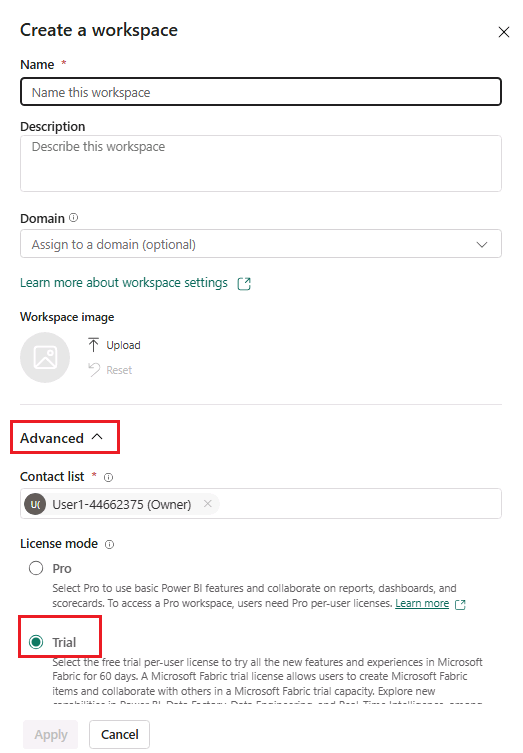
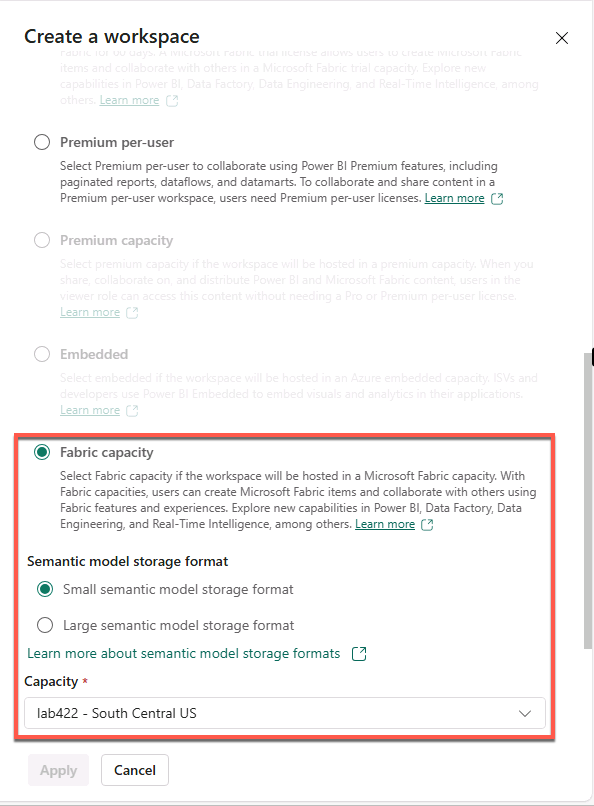
Update to use fabric capacity over the free trial

diff --git a/lab/README.md b/lab/README.md
@@ -10,42 +10,28 @@ This folder contains the public facing files for the lab `Microsoft Fabric: Star
 ## Sign into Windows
 
 1. In the virtual machine, sign into Windows using the following credentials:
-    * **User name**: +++@lab.VirtualMachine(Win11-Pro-Base-VM).Username+++
-    * **Password**: +++@lab.VirtualMachine(Win11-Pro-Base-VM).Password+++
+   - **User name**: +++@lab.VirtualMachine(Win11-Pro-Base-VM).Username+++
+   - **Password**: +++@lab.VirtualMachine(Win11-Pro-Base-VM).Password+++
 
 ## Create a trial Teams account
 
 1. In the virtual machine, open Microsoft Teams from the desktop or taskbar.
 2. When prompted, sign in using the following credentials:
-    * **Email**: +++@lab.CloudPortalCredential(User1).Username+++
-    * **Password**: +++@lab.CloudPortalCredential(User1).Password+++
+   - **Email**: +++@lab.CloudPortalCredential(User1).Username+++
+   - **Password**: +++@lab.CloudPortalCredential(User1).Password+++
 3. Complete the sign up process to create a new account.
 4. After signing in to Teams, select **OK** when prompted to stay signed in to all your apps and then select **Done** to complete.
 5. Choose **Activate / Explore / Unlock Trial** and when prompted allow Teams to be the default app for chats and calls select **Continue**.
 
-## Create a free-tier Fabric account
-
-1. In the virtual machine, open a web browser and browse to +++https://app.fabric.microsoft.com+++.
-2. When prompted, sign in using the following credentials:
-    * **Email**: +++@lab.CloudPortalCredential(User1).Username+++
-    * **Password**: +++@lab.CloudPortalCredential(User1).Password+++
-3. Complete the sign up process to create a new account, if asked for a phone number, enter +++555 1234567+++ when prompted. You will see Free license assigned, but you will still need to activate a Free Trial.
-
-## Activate a Fabric trial
-
-1. After signing up for a free Fabric account, in the Fabric portal at +++https://app.fabric.microsoft.com+++, select the **Account Manager** icon (the *user* image at the top right) and in the menu, select **Free trial** and then select **Activate** to start a Microsoft Fabric trial.
-![Screenshot showing how to activate a Fabric trial in the Fabric portal.](media/activate-fabric-trial.png)
-2. After the trial has been started, you can continue in the browser session - you will want to remember the **email** and **password** you used to sign up for Microsoft Fabric - you'll need them in the exercises (You can also find your credentials under the **Resources** tab).
-
 ## Exercises in this lab
 
-Now you're ready to complete the exercises in this lab using the Fabric trial license you just created. The lab includes multiple exercises, so when you finish one, just move onto the next one. The exercises in this lab are:
+Now you're ready to complete the exercises in this lab. The lab includes multiple exercises, so when you finish one, just move onto the next one. The exercises in this lab are:
 
-* Create an eventhouse in Microsoft Fabric
-* Get data in the Real-Time Hub in Microsoft Fabric
-* Query streaming data in a KQL queryset in Microsoft Fabric
-* Create a Real-Time dashboard in Microsoft Fabric
-* Create a Power BI report in Microsoft Fabric
+- Create an eventhouse in Microsoft Fabric
+- Get data in the Real-Time Hub in Microsoft Fabric
+- Query streaming data in a KQL queryset in Microsoft Fabric
+- Create a Real-Time dashboard in Microsoft Fabric
+- Create a Power BI report in Microsoft Fabric
 
 The exercises are designed to be completed in order because they build on the data and resources created in the previous exercises, so make sure you complete each exercise before moving on to the next one.
 
@@ -82,11 +68,12 @@ Select **Next >** to go to the first exercise.
 !INSTRUCTIONS [Real-Time Intelligence tutorial part 7: Clean up resources](https://raw.githubusercontent.com/microsoft/aitour-get-started-with-fabric/main/lab/tutorial-7-clean-up-resources.md)
 
 ## Discussions
+
 Use the Discussion page on this repository to ask any questions or continue the learning conversation!
 
 ## Additional Resources and Continued Learning
-| Resources          | Links                            | Description |
-|-------------------|----------------------------------|-------------------|
-| Microsoft Fabric Career Hub        | [Microsoft Fabric Career Hub on the Fabric Community Site](https://aka.ms/FabricCareerHub?ocid=fabric24_careerhub_blog_cxa) | The one-stop location to begin your learning journey for the DP-600: Implementing Analytics Solutions Using Microsoft Fabric certification |
-| Hands-on Real-Time Intelligence Applied Skills     | [Implement a Real-Time Intelligence with Microsoft Fabric](https://learn.microsoft.com/en-us/credentials/applied-skills/implement-a-real-time-intelligence-solution-with-microsoft-fabric/) | Validate your technical skills and open doors to new possibilities of advancement with Microsoft Applied Skills |
 
+| Resources                                      | Links                                                                                                                                                                                       | Description                                                                                                                                |
+| ---------------------------------------------- | ------------------------------------------------------------------------------------------------------------------------------------------------------------------------------------------- | ------------------------------------------------------------------------------------------------------------------------------------------ |
+| Microsoft Fabric Career Hub                    | [Microsoft Fabric Career Hub on the Fabric Community Site](https://aka.ms/FabricCareerHub?ocid=fabric24_careerhub_blog_cxa)                                                                 | The one-stop location to begin your learning journey for the DP-600: Implementing Analytics Solutions Using Microsoft Fabric certification |
+| Hands-on Real-Time Intelligence Applied Skills | [Implement a Real-Time Intelligence with Microsoft Fabric](https://learn.microsoft.com/en-us/credentials/applied-skills/implement-a-real-time-intelligence-solution-with-microsoft-fabric/) | Validate your technical skills and open doors to new possibilities of advancement with Microsoft Applied Skills                            |

diff --git a/lab/tutorial-1-resources.md b/lab/tutorial-1-resources.md
@@ -3,20 +3,23 @@
 In this part of the tutorial, you set up the environment. Specifically, you create a *workspace* and an *eventhouse*, which automatically creates a child KQL database, and then you enable OneLake availability.
 
 ## Create a workspace
-1. Sign in to the [Microsoft Fabric portal](https://fabric.microsoft.com).
-2. Choose **Real-Time Intelligence** from the list of options on the home page or the menu bar on the bottom left of the portal.
+1. In the virtual machine, open a web browser and browse to +++https://app.fabric.microsoft.com+++.
+2. When prompted, sign in using the following credentials:
+    * **Email**: +++@lab.CloudPortalCredential(User1).Username+++
+    * **Password**: +++@lab.CloudPortalCredential(User1).Password+++
+3. Choose **Real-Time Intelligence** from the list of options on the home page or the menu bar on the bottom left of the portal.
 
     ![Screenshot showing how to select Real-Time Intelligence from the Fabric homepage.](media/select-real-time-intelligence.png)
 
-3. Select **Workspaces** from the left navigation pane. Then select **+ New workspace**.
-4. Enter a name for the workspace, such as +++*TutorialWorkspace_@lab.LabInstance.Id*+++. Expand the **Advanced** option and make sure **Trial** is selected then select **Apply** when done.
+4. Select **Workspaces** from the left navigation pane. Then select **+ New workspace**.
+5. Enter a name for the workspace, such as +++*TutorialWorkspace_@lab.LabInstance.Id*+++. Expand the **Advanced** option and make sure **Fabric Capacity** is selected then select **Apply** when done.
 
     ![Screenshot showing how to create a new workspace in Real-Time Intelligence.](media/create-workspace-side-pane.png)
 
 ## Create an eventhouse
 
 1. Browse to the workspace that you just created in the previous step. It will be located in the left hand navigation pane under Workspaces.
-2. Ensure that there is a diamond icon next to the workspace name, which indicates that the workspace is associated with a Fabric Capacity *(in this case the free trial)*.
+2. Ensure that there is a diamond icon next to the workspace name, which indicates that the workspace is associated with a Fabric Capacity.
 
     ![Screenshot showing the diamond icon next to the workspace name.](media/workspace-diamond-icon.png)
 
